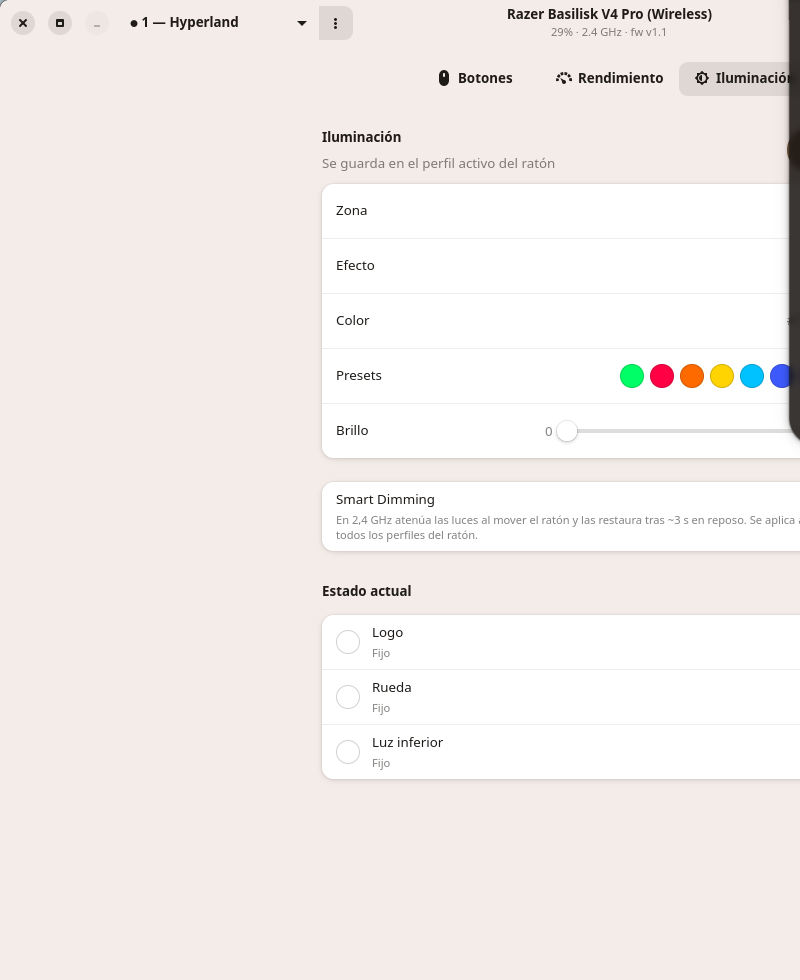
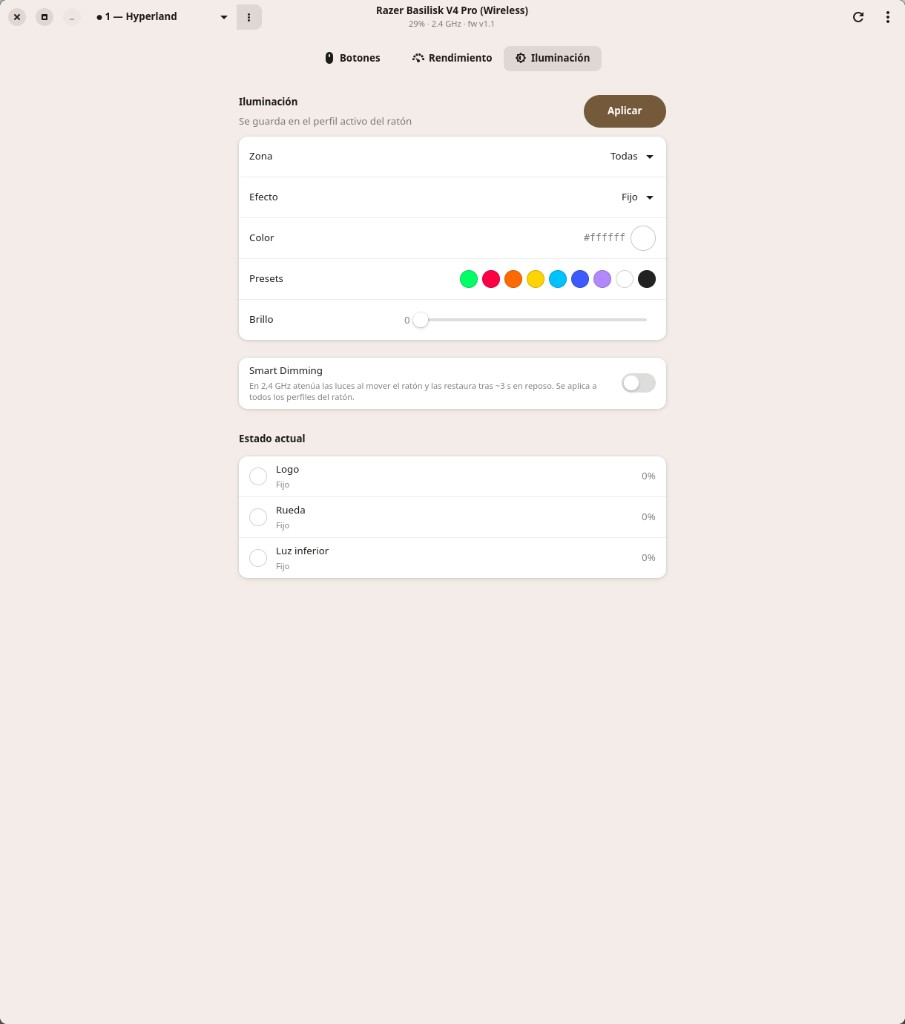
Drop the Serpentine mention from the README and use a cleaner screenshot.

diff --git a/README.md b/README.md
@@ -4,7 +4,7 @@
 
 The trailing **x** nods to Tux. Settings are written into the mouse’s onboard memory and keep working with the app closed.
 
-> Not affiliated with Razer Inc. Protocol knowledge is ported from [Serpentine](https://github.com/fn-milans/Serpentine) (macOS) and [OpenRazer](https://github.com/openrazer/openrazer).
+> Not affiliated with Razer Inc.
 
 ![Lighting page](docs/screenshots/lighting.png)
 
